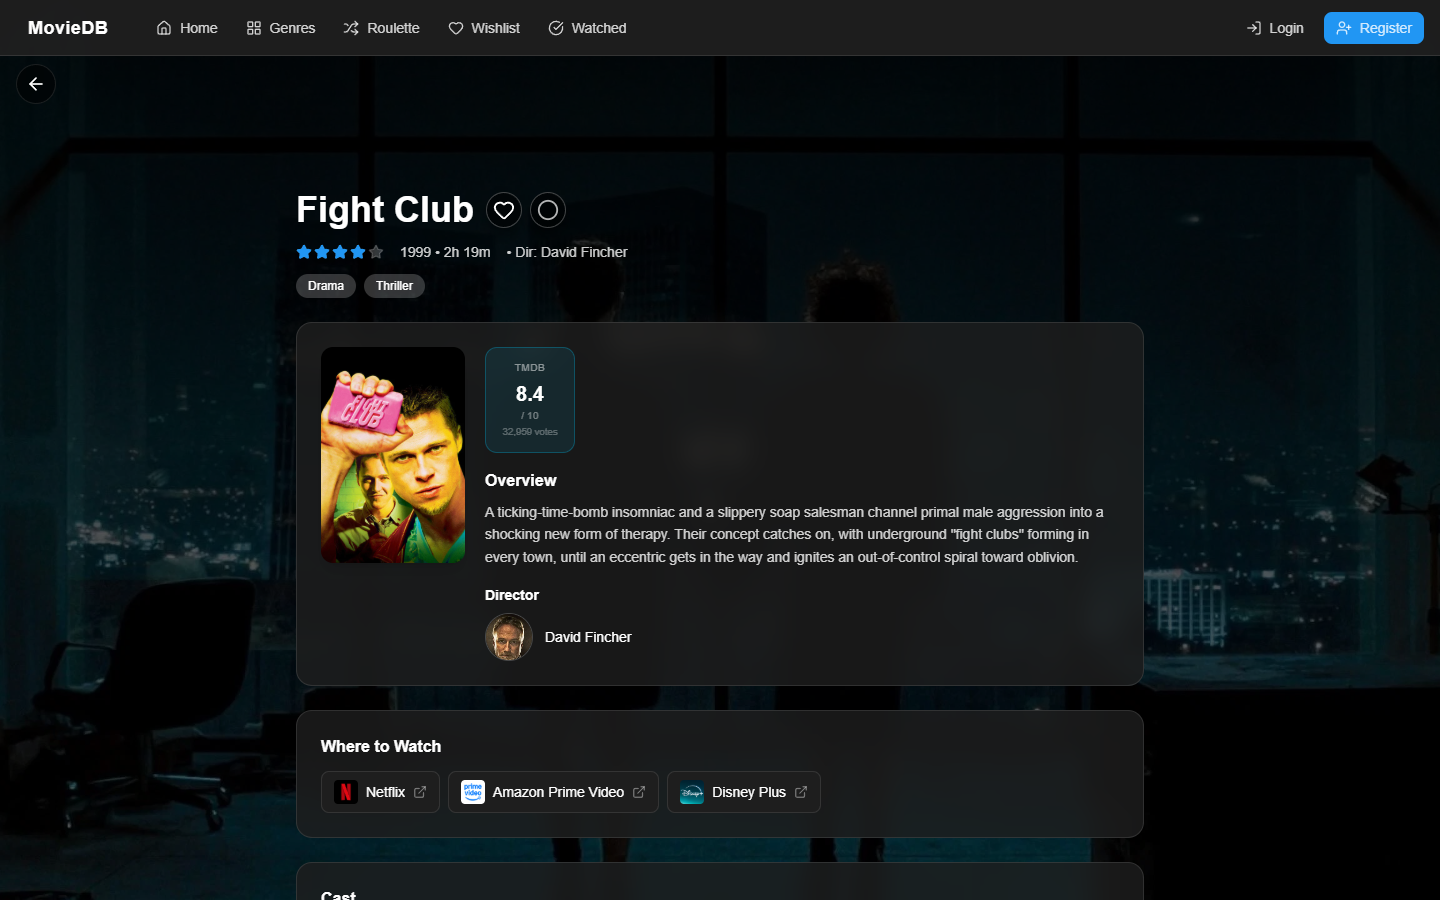
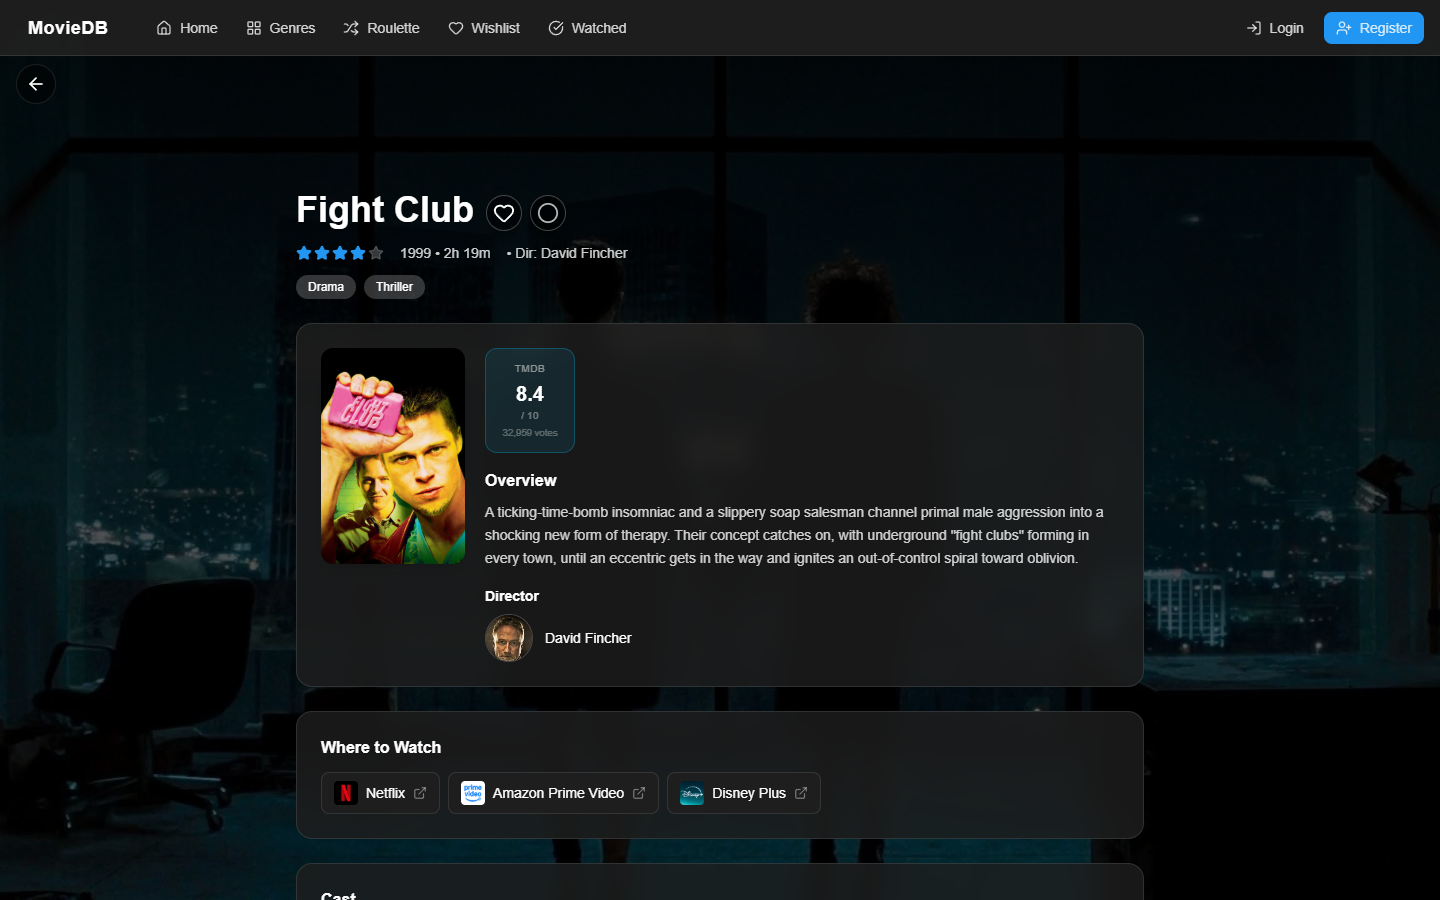
fix(details): trail the title on wrap, and lay out for phones
As a flex sibling of the title, the actions were pushed to the far
right whenever the title wrapped. Inline flow keeps them after the last
word. On phones they get their own row instead, with 44px tap targets,
because trailing a wrapped title there left them dangling with an odd
indent.

On phones the overview card also showed a full-width poster that pushed
the ratings and overview below the fold; it's now a thumbnail beside
the ratings, with the text full-width below.

diff --git a/src/components/media-details/MediaHeader.tsx b/src/components/media-details/MediaHeader.tsx
@@ -25,7 +25,8 @@ const FocusableGenreChip: React.FC<{ genre: Genre; onClick: () => void }> = ({ g
   );
 };
 
-const READABLE_ON_ANY_BACKDROP = 'border border-white/25 backdrop-blur-md shadow-lg shadow-black/40';
+const READABLE_ON_ANY_BACKDROP =
+  'border border-white/25 backdrop-blur-md shadow-lg shadow-black/40 min-w-11 min-h-11 sm:min-w-0 sm:min-h-0';
 
 /**
  * Backdrop, back button and the title block. The backdrop is fixed-positioned,
@@ -77,14 +78,13 @@ const MediaHeader: React.FC<{ media: MediaDetails }> = ({ media }) => {
 
       {/* Hero area: clear the back button, keep some backdrop visible */}
       <div className="relative z-10 mt-16 sm:mt-20 md:mt-[14vh] w-full max-w-4xl mx-auto px-4 sm:px-6">
-        <div className="flex items-center gap-3 mb-3">
-          <h1 className="text-white text-3xl sm:text-4xl font-bold min-w-0 drop-shadow">
-            {media.title}
-          </h1>
-          <div className="flex items-center gap-2 flex-shrink-0">
+        {/* Phones: actions get their own row. Wider: inline flow, so they trail the title's last line however it wraps. */}
+        <div className="text-white text-2xl sm:text-4xl font-bold leading-tight mb-3">
+          <h1 className="inline drop-shadow">{media.title}</h1>
+          <span className="flex gap-2 mt-3 sm:inline-flex sm:align-middle sm:mt-0 sm:ml-3">
             <WishlistButton mediaId={media.id} mediaType={media.media_type} iconSize={22} className={READABLE_ON_ANY_BACKDROP} focusable />
             <WatchedButton mediaId={media.id} mediaType={media.media_type} iconSize={22} className={READABLE_ON_ANY_BACKDROP} focusable />
-          </div>
+          </span>
         </div>
 
         {/* Meta row */}

diff --git a/src/components/media-details/MediaOverview.tsx b/src/components/media-details/MediaOverview.tsx
@@ -26,9 +26,9 @@ const MediaOverview: React.FC<{ media: MediaDetails }> = ({ media }) => {
 
   return (
     <DetailCard>
-      <div className="flex flex-col sm:flex-row gap-5">
-        {/* Poster */}
-        <div className="w-full sm:w-36 flex-shrink-0">
+      {/* Phones: thumbnail beside the ratings, text full-width below. Wider: poster down the left. */}
+      <div className="grid grid-cols-[6rem_1fr] sm:grid-cols-[9rem_1fr] sm:grid-rows-[auto_1fr] gap-x-4 sm:gap-x-5 gap-y-4">
+        <div className="sm:row-span-2">
           {media.poster_path ? (
             <img
               src={`https://image.tmdb.org/t/p/w500${media.poster_path}`}
@@ -40,8 +40,11 @@ const MediaOverview: React.FC<{ media: MediaDetails }> = ({ media }) => {
           )}
         </div>
 
-        <div className="flex-1 flex flex-col gap-4">
+        <div className="min-w-0">
           <RatingsPanel media={media} releaseYear={releaseYear} />
+        </div>
+
+        <div className="col-span-2 sm:col-span-1 flex flex-col gap-4">
 
           <div>
             <h2 className="text-white font-semibold mb-2">Overview</h2>
